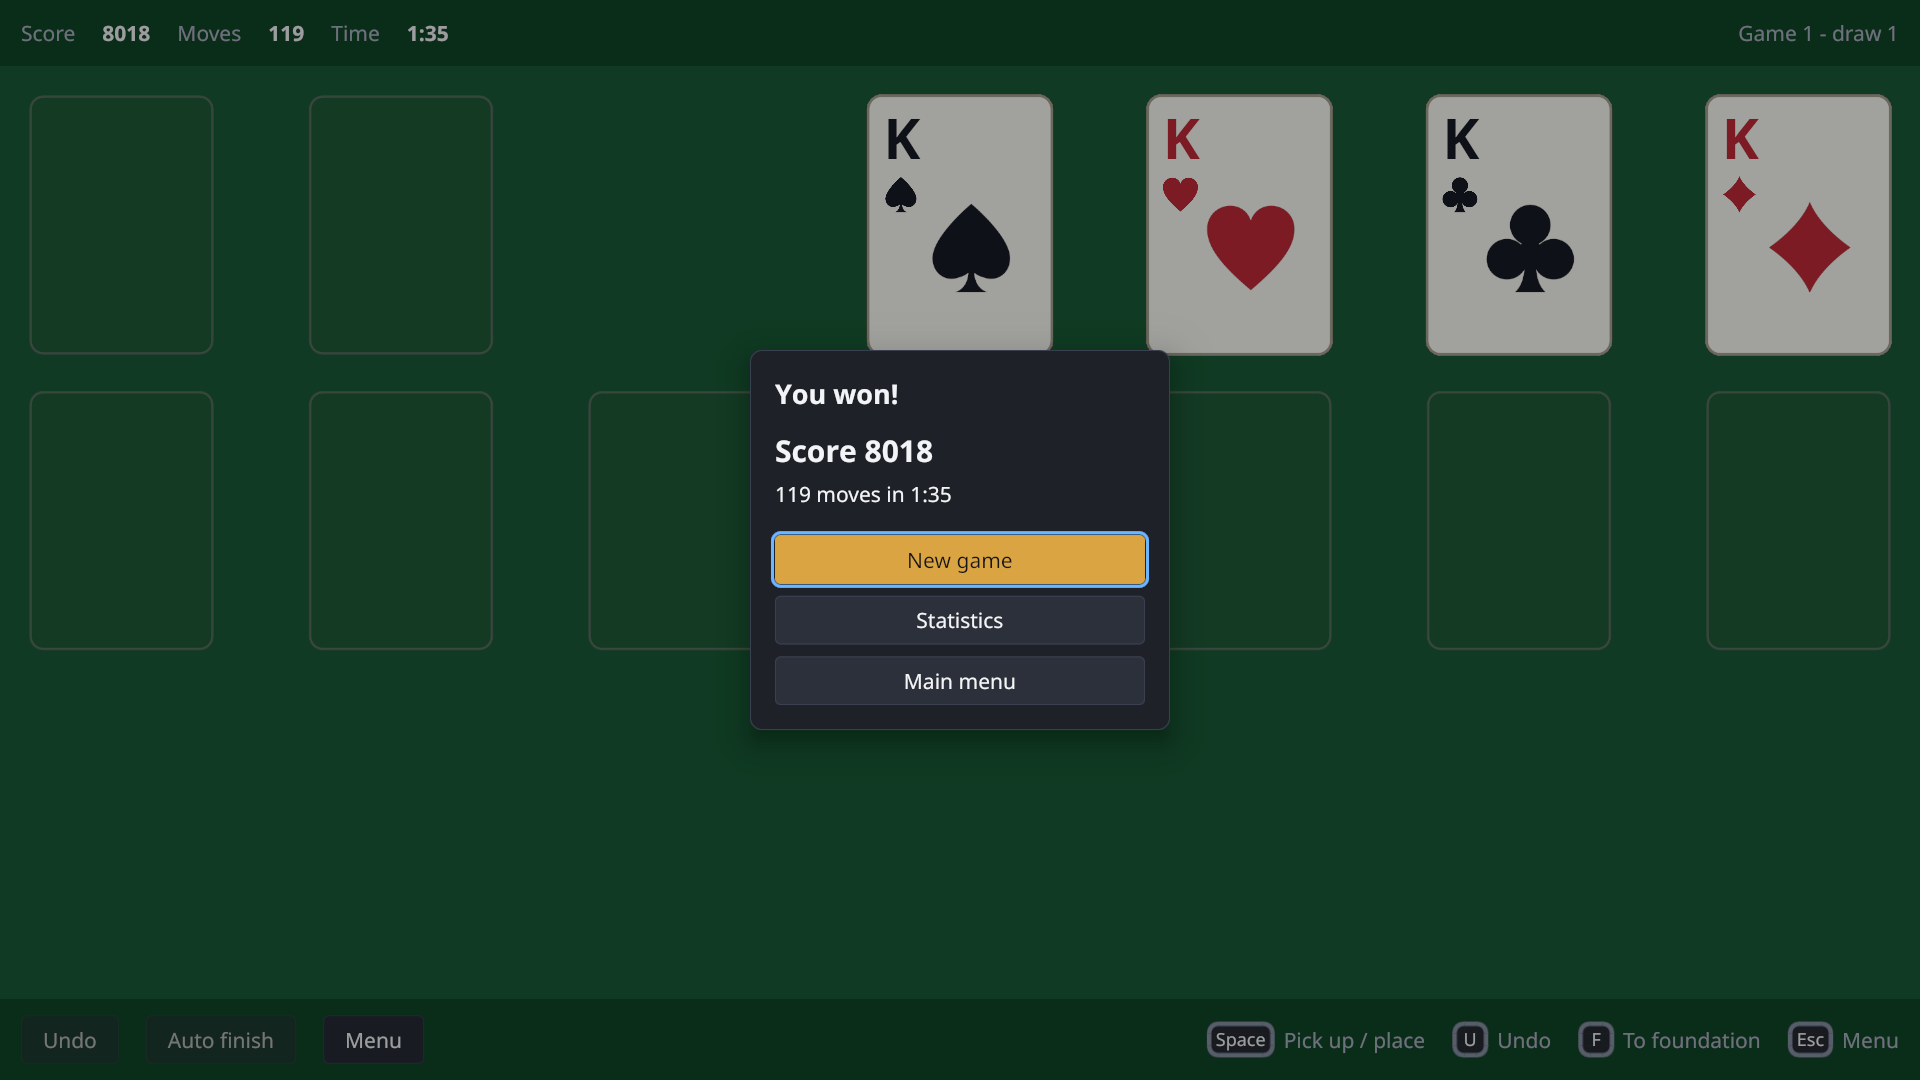
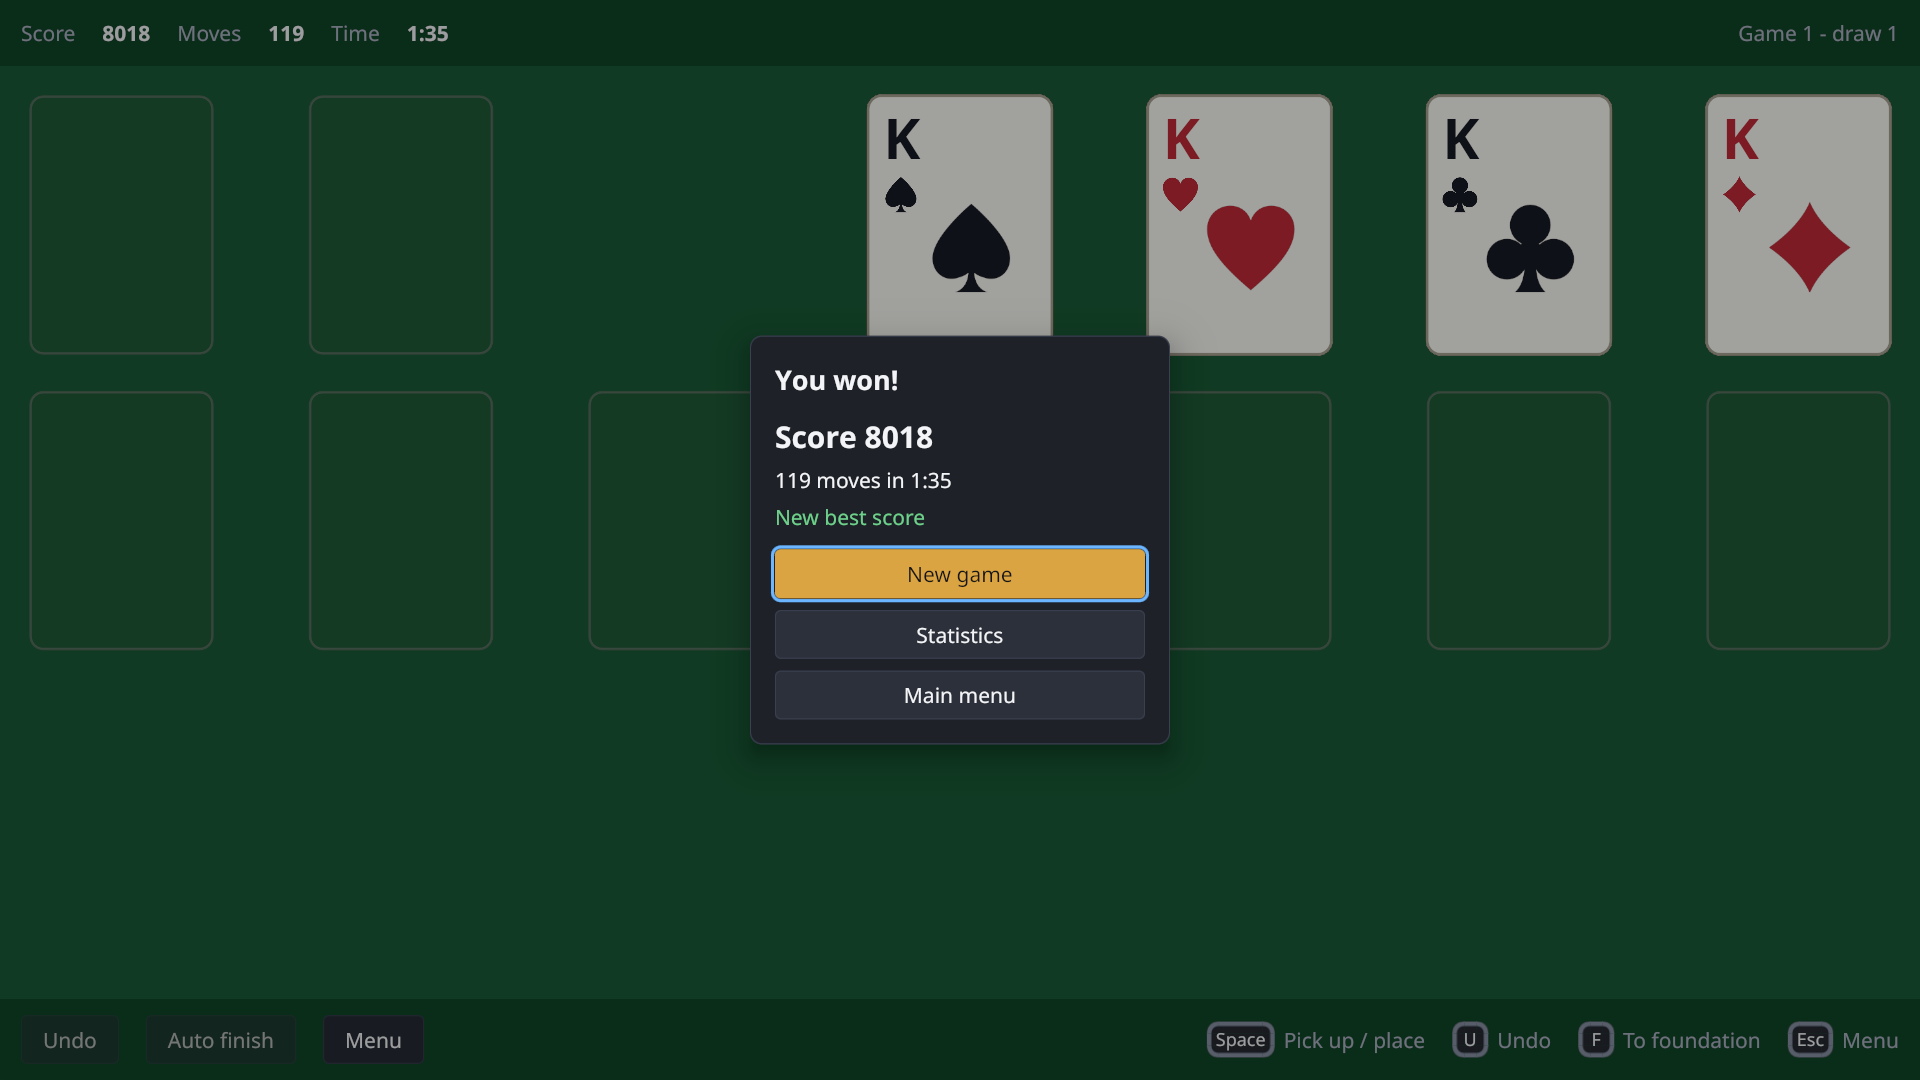
solitaire sample: use the host default shaders; refresh win dialog references

Changed region(s): [[0.4062, 0.3056, 0.5938, 0.6722], [0.5938, 0.3056, 0.625, 0.3361]]

diff --git a/samples/solitaire/Game.cs b/samples/solitaire/Game.cs
@@ -137,15 +137,6 @@ public sealed class SolitaireGame : GameDefinition
         ArgumentNullException.ThrowIfNull(game);
         Session.For(game).HandleInput(input);
     }
-
-    /// <inheritdoc />
-    public override IRenderStage CreateRenderStage(HostResources resources)
-    {
-        ArgumentNullException.ThrowIfNull(resources);
-        // Until the shader build package replaces them, the renderer's compiled shaders travel inside the program.
-        var shaders = resources.Shaders ?? new EmbeddedShaders();
-        return new Render2DStage(resources with { Shaders = shaders });
-    }
 }
 
 /// <summary>Reads the files embedded in the program.</summary>
@@ -158,13 +149,6 @@ internal static class Assets
         stream.CopyTo(copy);
         return copy.ToArray();
     }
-}
-
-/// <summary>The renderer's compiled shaders, read from the program's embedded files.</summary>
-internal sealed class EmbeddedShaders : OneGame.Render2D.IShaderSource
-{
-    public OneGame.Render2D.ShaderCode Load(string program, string entryPoint) =>
-        new(entryPoint.StartsWith("VS", StringComparison.Ordinal) ? OneGame.Gpu.ShaderStage.Vertex : OneGame.Gpu.ShaderStage.Pixel, "main", Assets.Read("spv/" + program + "." + entryPoint));
 }
 
 /// <summary>Command-line helpers for the program entry point.</summary>
